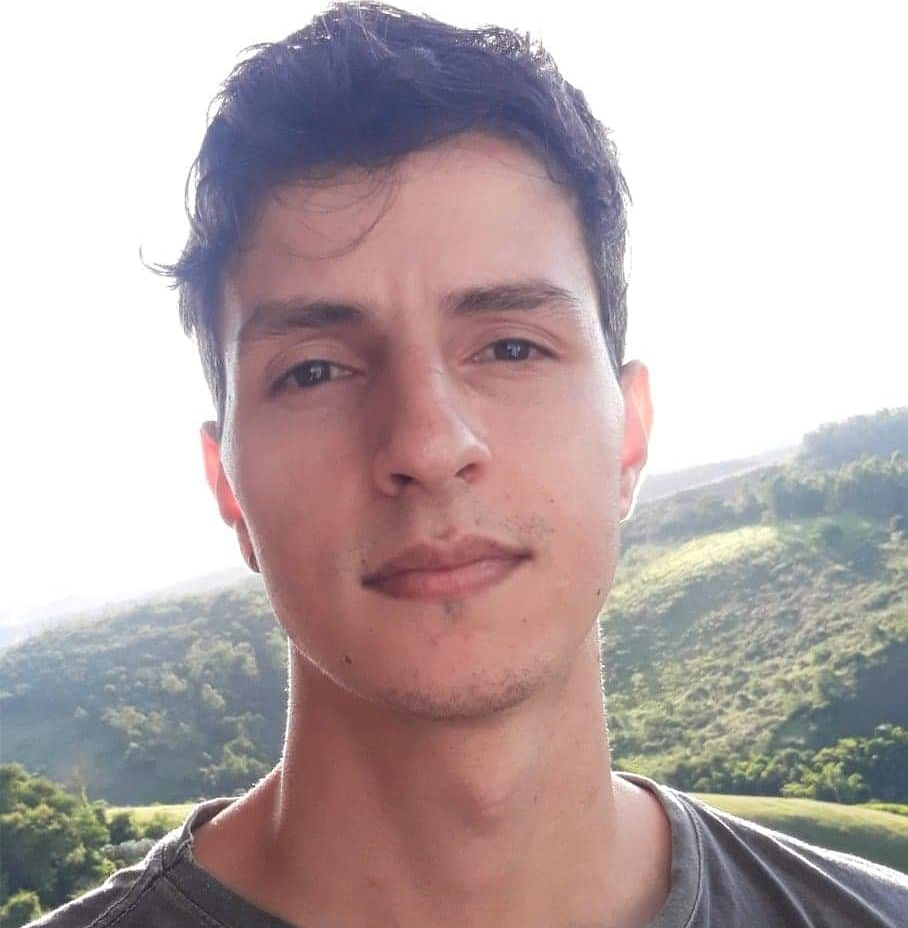
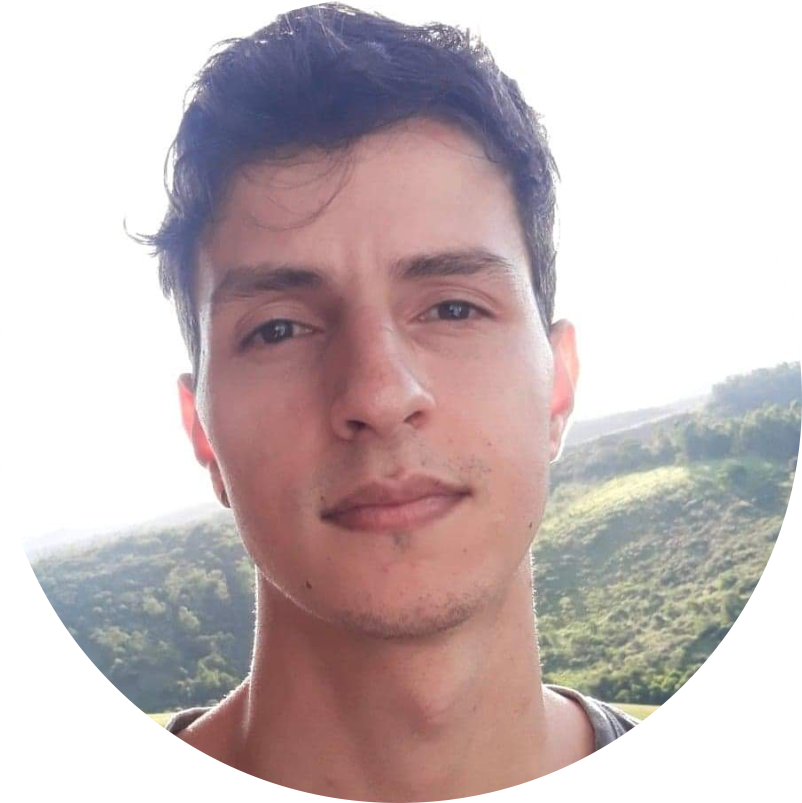
finalizando menu sandwich e ajustando responsividade em algumas páginas

diff --git a/src/pages/Home/Home.module.css b/src/pages/Home/Home.module.css
@@ -4,12 +4,13 @@
 
   display: flex;
   align-items: center;
-  justify-content: space-evenly;
+
+  justify-content: space-between;
   /* space-around */
 }
 
 .home img {
-  height: 500px;
+  height: 400px;
 }
 
 .home p {
@@ -50,6 +51,7 @@
 @media (max-width: 768px) {
   .home {
     flex-direction: column;
+    margin: 2rem 0rem 2rem 0rem;
   }
 }
 
@@ -59,8 +61,9 @@
   }
 
   .home img {
-    max-width: 100%;
+    max-width: 90%;
     height: auto;
-    padding-inline: 2.5rem;
+    padding: 1px;
+
   }
 }

diff --git a/src/components/Header/index.jsx b/src/components/Header/index.jsx
@@ -13,7 +13,9 @@ function Header() {
       <Link to="/">
         <span>denisCapelete.dev</span>
       </Link>
-      <nav className={styles.menuSandwich}>
+      <nav className={`${styles.menuSandwich} ${showMenu ? styles.show : ''}`}
+        onClick={toggleMenu}>
+        {/* se showMenu for verdadeira adiciona a classe show se não, não faz nada */}
         <Link to="/">Home</Link>
         <Link to="/sobre">Sobre</Link>
         <Link to="/projetos">Projetos</Link>

diff --git a/src/pages/Sobre/Sobre.module.css b/src/pages/Sobre/Sobre.module.css
@@ -51,6 +51,10 @@ p {
 }
 
 @media (max-width:768px) {
+  .sobre {
+    margin-top: 3rem;
+  }
+
   .bio {
     flex-direction: column;
     align-items: center;
@@ -64,11 +68,16 @@ p {
   .icones img {
     height: 45px;
   }
+
+  .techs {
+    margin-bottom: 3rem;
+  }
+
 }
 
 @media (max-width: 480px) {
   .bio img {
-    max-width: 40%;
+    max-width: 50%;
     padding-top: 4rem;
   }
 

diff --git a/src/components/Header/Header.module.css b/src/components/Header/Header.module.css
@@ -56,4 +56,24 @@
     display: none;
     width: 100%;
   }
+
+  .show {
+    display: flex;
+    width: 25%;
+    height: auto;
+    position: absolute;
+    top: 50px;
+    right: 0;
+    background-color: var(--primary);
+    flex-direction: column;
+    padding: 20px;
+    gap: 1rem;
+  }
+
+  @media (max-width: 480px) {
+    .show {
+      width: 90%;
+    }
+  }
+
 }
